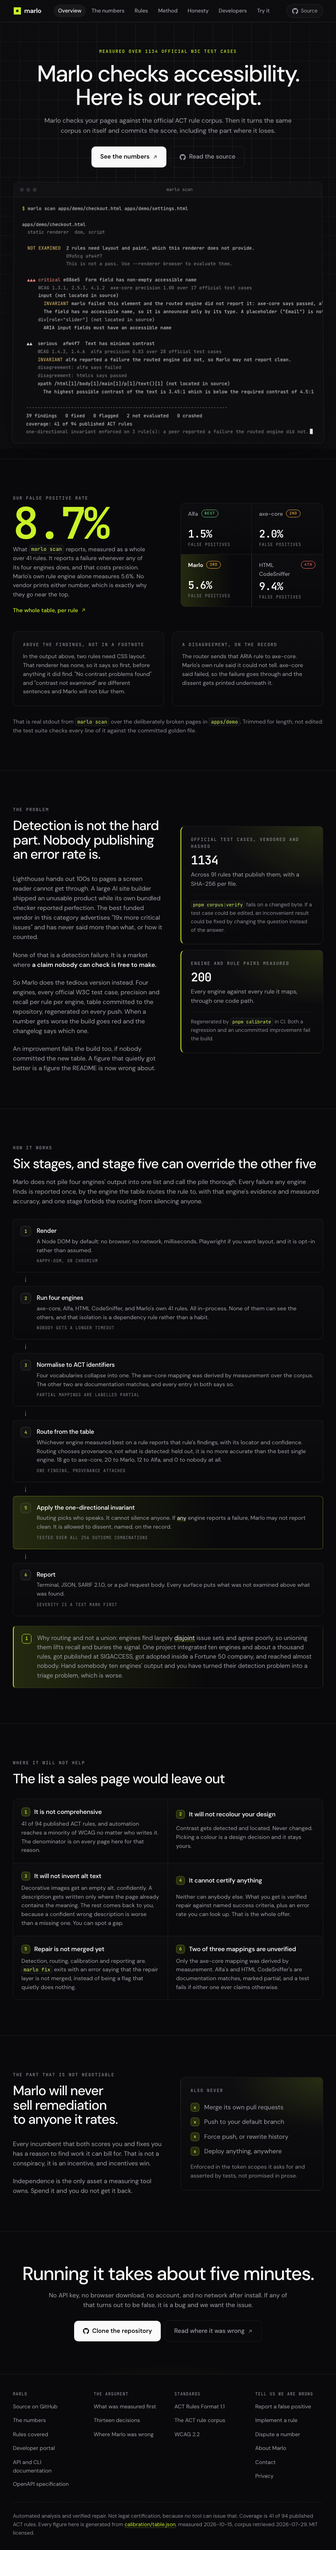
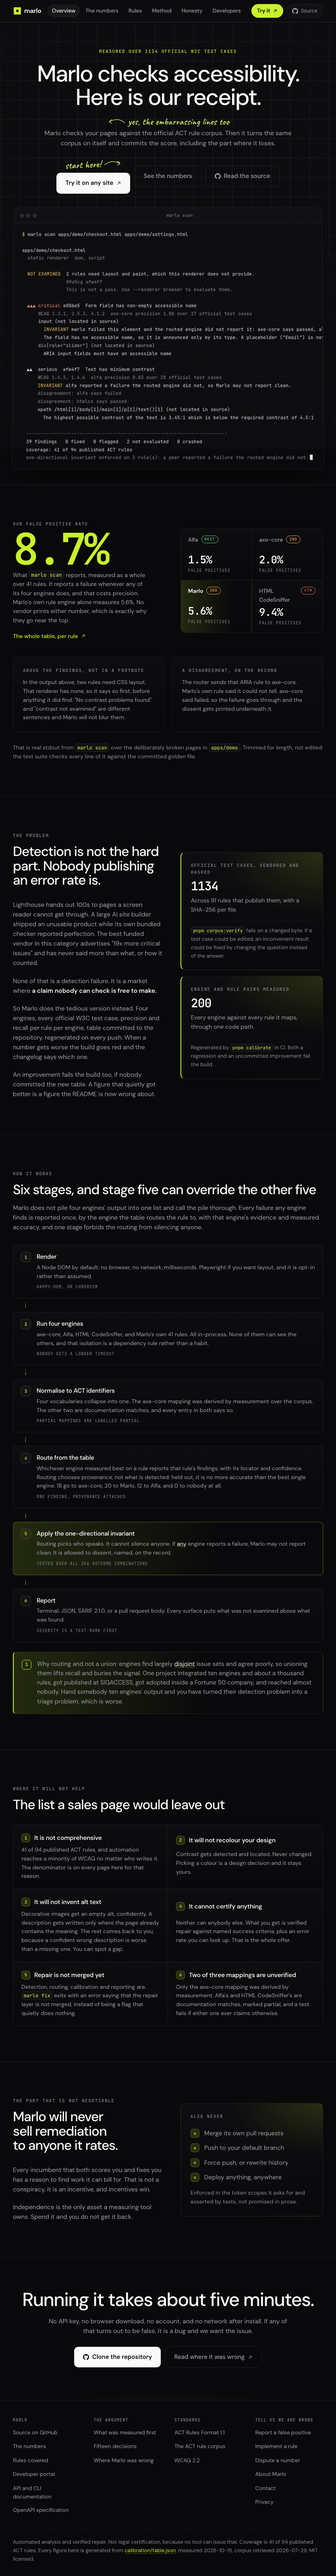
docs: record D-015 and describe what the playground fetches
DECISIONS.md explains why a page fetch keeps D-007 intact and what would
make it wrong. SECURITY.md, the privacy and developer pages and the README
say what leaves the browser for each kind of input.

diff --git a/README.md b/README.md
@@ -15,7 +15,7 @@ That figure is what `marlo scan` reports, measured as a whole over the 41 rules 
 
 **[trymarlo.pages.dev](https://trymarlo.pages.dev)** · [try it in your browser](https://trymarlo.pages.dev/try/) · [the numbers](calibration/README.md) · [where Marlo was wrong](HONESTY.md)
 
-**Try it without installing anything.** Paste HTML into the [playground](https://trymarlo.pages.dev/try/) and Marlo's own rules check it in your browser, with each rule's measured precision beside every finding; nothing you paste leaves the page. The same page has a bookmarklet that checks any page you open. For the full four-engine scan, `docker run --rm -v "$PWD:/work" ghcr.io/karthiksubramanian07/marlo scan page.html`.
+**Try it without installing anything.** Give the [playground](https://trymarlo.pages.dev/try/) a web address, a GitHub repository or some HTML, and Marlo's own rules check it in your browser, with each rule's measured precision beside every finding. The same page has a bookmarklet that checks any page you open. For the full four-engine scan, `docker run --rm -v "$PWD:/work" ghcr.io/karthiksubramanian07/marlo scan page.html`.
 
 ---
 
@@ -277,16 +277,16 @@ Five of the nine are ours. Under the protocol W3C publishes implementation repor
 
 ## Eight ways in, one set of numbers
 
-|                   |                                                           |                                                                    |
-| ----------------- | --------------------------------------------------------- | ------------------------------------------------------------------ |
-| **Playground**    | [trymarlo.pages.dev/try](https://trymarlo.pages.dev/try/) | Marlo's own rules on pasted HTML, in your browser, sending nothing |
-| **Bookmarklet**   | On the same page                                          | The same rules on any page you open, in a panel beside it          |
-| **Docker**        | `ghcr.io/karthiksubramanian07/marlo`                      | The CLI with nothing else installed; amd64 and arm64               |
-| **CLI**           | `marlo scan`, `explain`, `coverage`                       | Exits 1 on findings, 3 on a rule it could not evaluate             |
-| **Library**       | `@marlo/cli`, `@marlo/report`                             | The pipeline and the surfaces, importable                          |
-| **SARIF 2.1.0**   | `--sarif`                                                 | Per-engine provenance on every result, for the code scanning tab   |
-| **GitHub Action** | [`.github/actions/marlo`](.github/actions/marlo)          | Read-only by default; an opt-in mode opens a pull request          |
-| **MCP**           | [`@marlo/mcp`](packages/mcp), or `trymarlo.pages.dev/mcp` | Three read-only tools. No `fix` tool, and there will not be one    |
+|                   |                                                           |                                                                          |
+| ----------------- | --------------------------------------------------------- | ------------------------------------------------------------------------ |
+| **Playground**    | [trymarlo.pages.dev/try](https://trymarlo.pages.dev/try/) | Marlo's own rules on a URL, a repository or pasted HTML, in your browser |
+| **Bookmarklet**   | On the same page                                          | The same rules on any page you open, in a panel beside it                |
+| **Docker**        | `ghcr.io/karthiksubramanian07/marlo`                      | The CLI with nothing else installed; amd64 and arm64                     |
+| **CLI**           | `marlo scan`, `explain`, `coverage`                       | Exits 1 on findings, 3 on a rule it could not evaluate                   |
+| **Library**       | `@marlo/cli`, `@marlo/report`                             | The pipeline and the surfaces, importable                                |
+| **SARIF 2.1.0**   | `--sarif`                                                 | Per-engine provenance on every result, for the code scanning tab         |
+| **GitHub Action** | [`.github/actions/marlo`](.github/actions/marlo)          | Read-only by default; an opt-in mode opens a pull request                |
+| **MCP**           | [`@marlo/mcp`](packages/mcp), or `trymarlo.pages.dev/mcp` | Three read-only tools. No `fix` tool, and there will not be one          |
 
 The playground and the bookmarklet run only Marlo's own engine, so they find less than the CLI: no axe-core, Alfa or HTML CodeSniffer, no routing, and no invariant. They say so on the page. The Action and MCP are where the safety promise stops being prose. In an Action, what Marlo may write is a statement about a permission, so the Action reads the permissions it was handed before it does anything. By default it refuses any token that can write to the repository. With `open-pull-request: true` it requires exactly `contents: write` and `pull-requests: write`, refuses every other write scope, applies only fixes that cleared the measured gate and verified, and opens one pull request whose branch name is derived from the edits, so a second run over the same state opens nothing. It refuses to write to the default branch, never force-updates a ref, and never merges. The body carries, per fix, the measurement the decision rested on and the three verification answers, and per refusal the number that disqualified it. Over MCP, a model calls tools with no human in between, so the server has no tool that writes and a test asserts the package does not import `writeFileSync` at all.
 
@@ -329,7 +329,7 @@ A rule that measures badly still gets merged. It is published with its real numb
 |                                                |                                                                                    |
 | ---------------------------------------------- | ---------------------------------------------------------------------------------- |
 | [RESEARCH.md](RESEARCH.md)                     | What was measured before any code was written, and the eight things it rules out   |
-| [DECISIONS.md](DECISIONS.md)                   | Thirteen decisions, each stating what would make it wrong                          |
+| [DECISIONS.md](DECISIONS.md)                   | Fifteen decisions, each stating what would make it wrong                           |
 | [HONESTY.md](HONESTY.md)                       | Seventeen entries. Every defect found during the build, with what reported success |
 | [calibration/README.md](calibration/README.md) | The generated table, per rule, per engine                                          |
 | [ARCHITECTURE.md](ARCHITECTURE.md)             | How a page moves through the pipeline                                              |

diff --git a/SECURITY.md b/SECURITY.md
@@ -120,13 +120,13 @@ Static pages plus one Worker that serves calibration data.
 
 |                      |                                                                                               |
 | -------------------- | --------------------------------------------------------------------------------------------- |
-| Accepts user content | **Never on the server.** No upload and no scan-a-URL form. See the playground, below          |
+| Accepts user content | **A web address, to fetch one page's HTML.** Never an upload, and nothing is stored. Below    |
 | Cookies              | None                                                                                          |
 | Analytics            | Cloudflare Web Analytics if enabled, which is cookieless and stores no per-visitor identifier |
 | Personal data stored | None                                                                                          |
 | Database contents    | Calibration history only, which is a projection of committed files in `calibration/`          |
 
-**The playground and the bookmarklet.** `/try/` is the one page that serves a script, and the script is Marlo's own rules. Markup pasted there is written into an iframe with `sandbox="allow-same-origin"` and no `allow-scripts`, so its scripts never run and its forms cannot submit, and it is evaluated in the visitor's browser. The page's policy is `connect-src 'none'` and allows script from the site's own origin only, so neither the playground nor anything pasted into it can send a request; its one permitted base URL is on `.invalid`, which never resolves, so relative URLs in pasted markup go nowhere. The bookmarklet loads the same rules into whatever page the visitor opens, evaluates it there, and makes no request of its own. Its panel is built with DOM calls and `textContent` inside a closed shadow root, so text from the page cannot inject markup into it. A site test fails if either script contains a timer or any request API.
+**The playground and the bookmarklet.** `/try/` is the one page that serves a script, and the script is Marlo's own rules. Whatever it checks is written into an iframe with `sandbox="allow-same-origin"` and no `allow-scripts`, so the page's scripts never run and its forms cannot submit, and it is evaluated in the visitor's browser. It gets the markup three ways. Pasted HTML never leaves the page, and relative URLs in it point at a reserved `.invalid` domain. A GitHub repository is read directly from `api.github.com` and `raw.githubusercontent.com`. A web address goes to `/try/fetch` on the site's Worker, which returns that one page's HTML under the limits in [D-015](DECISIONS.md): same-origin callers only, public hostnames on default ports only and never an IP literal or local name, every redirect re-checked and at most five, HTML only, three megabytes, ten seconds, nothing stored, and the response labelled as bytes so no browser renders it as a page of this origin. The page's policy allows script from the site only and connections to exactly those three destinations; the preview may load a checked page's own stylesheets, images and fonts so the layout rules see it styled. The bookmarklet loads the same rules into whatever page the visitor opens, evaluates it there, and makes no request of its own. Its panel is built with DOM calls and `textContent` inside a closed shadow root, so text from the page cannot inject markup into it. Site tests fail if either script contains a timer, if the bookmarklet contains any request API, or if the policy's list of destinations changes.
 
 The absence of a hosted scanner is a deliberate architectural choice rather than a missing feature. A hosted scanner means accepting arbitrary URLs, rendering them in a browser we operate, and becoming a request-forgery surface and an abuse vector. It is also the component that would cost money, per [D-007](DECISIONS.md#d-007). Both reasons point the same way.
 

diff --git a/DECISIONS.md b/DECISIONS.md
@@ -217,6 +217,18 @@ Three things keep this from being the circularity it sounds like. Every sheet, r
 
 **Wrong if:** the raters' agreement with the W3C outcomes is low enough that the error in the ground truth is comparable to the error being measured, or a person rating a sample of the pages disagrees with the adjudicated labels much more often than the ACT measurement predicts. Either would mean the real-page figures measure the raters as much as the engines, and they would be withdrawn, not adjusted.
 
+## D-015: The playground fetches a page's HTML, and the rules still run in the visitor's browser
+
+**Status:** accepted.
+
+Pasting a page's source is a step almost nobody can take, so the playground on `/try/` accepts a web address. A browser may not read another site's HTML, so something has to fetch it, and `/try/fetch` on the site's own Worker does: it returns that one page's bytes, and the rules run in the visitor's browser as they do for a paste. That keeps D-007 intact. There is still no browser Marlo operates and no rendering it pays for. The fetch is one request through Workers, inside the free allowance at any volume this site sees, and when that allowance runs out requests fail rather than bill.
+
+The limits are what stop it being an open proxy. It serves callers whose browser reports a same-origin request, so another website's script cannot use it. It fetches only http and https URLs on default ports, by public hostname, never an IP literal, `localhost` or a local suffix, and it re-checks every redirect against the same rules, stopping after five. It returns HTML only, under three megabytes, within ten seconds, labelled as bytes so no browser renders the response as a page of this origin, and it stores nothing. The page's own scripts never run: the preview frame has no `allow-scripts`. A GitHub repository needs no fetch at all, because GitHub's API and raw file host allow browsers to read them directly, and the page's content security policy names exactly those destinations.
+
+What this gives up, and the page says so: a page that builds itself with JavaScript has little in its HTML to check, and some sites refuse automated requests. The bookmarklet covers both, because it runs on the page as the visitor's browser drew it.
+
+**Wrong if:** the endpoint is used for something other than the playground at a volume that matters, or a request can be made to reach an address the rules refuse. Either would mean it is a proxy with a playground attached, and it would be removed rather than patched around.
+
 ---
 
 ## Working agreements

diff --git a/CHANGELOG.md b/CHANGELOG.md
@@ -23,6 +23,8 @@ Nothing is published to a registry yet. There is no installable release, so ther
 - `calibration/analysis.json` and `ANALYSIS.md`: what `marlo scan` reports measured as a whole, every engine alone, the routed engine in sample and leave one out, a majority of engines, Wilson intervals on every proportion, pairwise agreement between engines, the flattered column's sensitivity to its threshold, and the routing scored on rated real pages once any exist.
 - `node scripts/rate.mjs --rater A` (or `B`), a local interface for rating the real pages.
 - Ground truth for all 1025 real-page cells, rated independently by two language models blind to every engine, with the 40 disagreements settled by a third (D-014). Every sheet, resolution and published figure names the kind of rater and the model, and the schema refuses a rated cell without them. `scripts/rater-validity.mjs` grades the same raters on the 594 official test cases of the same rules with their names hidden, and writes `corpus/real/adjudication/RATER-VALIDITY.md`.
+- The playground takes a web address or a GitHub repository as well as pasted HTML (D-015). A web address is fetched once by the site's Worker, which returns that page's HTML under strict limits and stores nothing; a repository's HTML files, up to twenty-five, are read straight from GitHub, with a per-file list of failures. The preview loads the checked page's own styles so the layout rules see it as designed, and warns when a page builds itself with JavaScript.
+- "Try it" is a filled button in the masthead on every page, and the home page's first button. A few handwritten margin notes, in Caveat, mark up the site in Marlo's own voice.
 - A playground at [trymarlo.pages.dev/try](https://trymarlo.pages.dev/try/). Paste HTML and Marlo's own rules check it in your browser, inside a sandboxed frame where its scripts never run, with each rule's measured precision beside every finding and the report downloadable as JSON. The page's policy forbids any request, so nothing pasted leaves the browser. The rules are bundled from source at site build time.
 - A bookmarklet on the same page that runs those rules on any page the visitor opens and lists the failures in a panel, outlining an element when it is chosen.
 - A container image, `ghcr.io/karthiksubramanian07/marlo`, for amd64 and arm64: the CLI with nothing to install but Docker. A workflow builds it on every pull request that touches it, checks that the broken demo fails and the clean one passes, and publishes from `main`.
